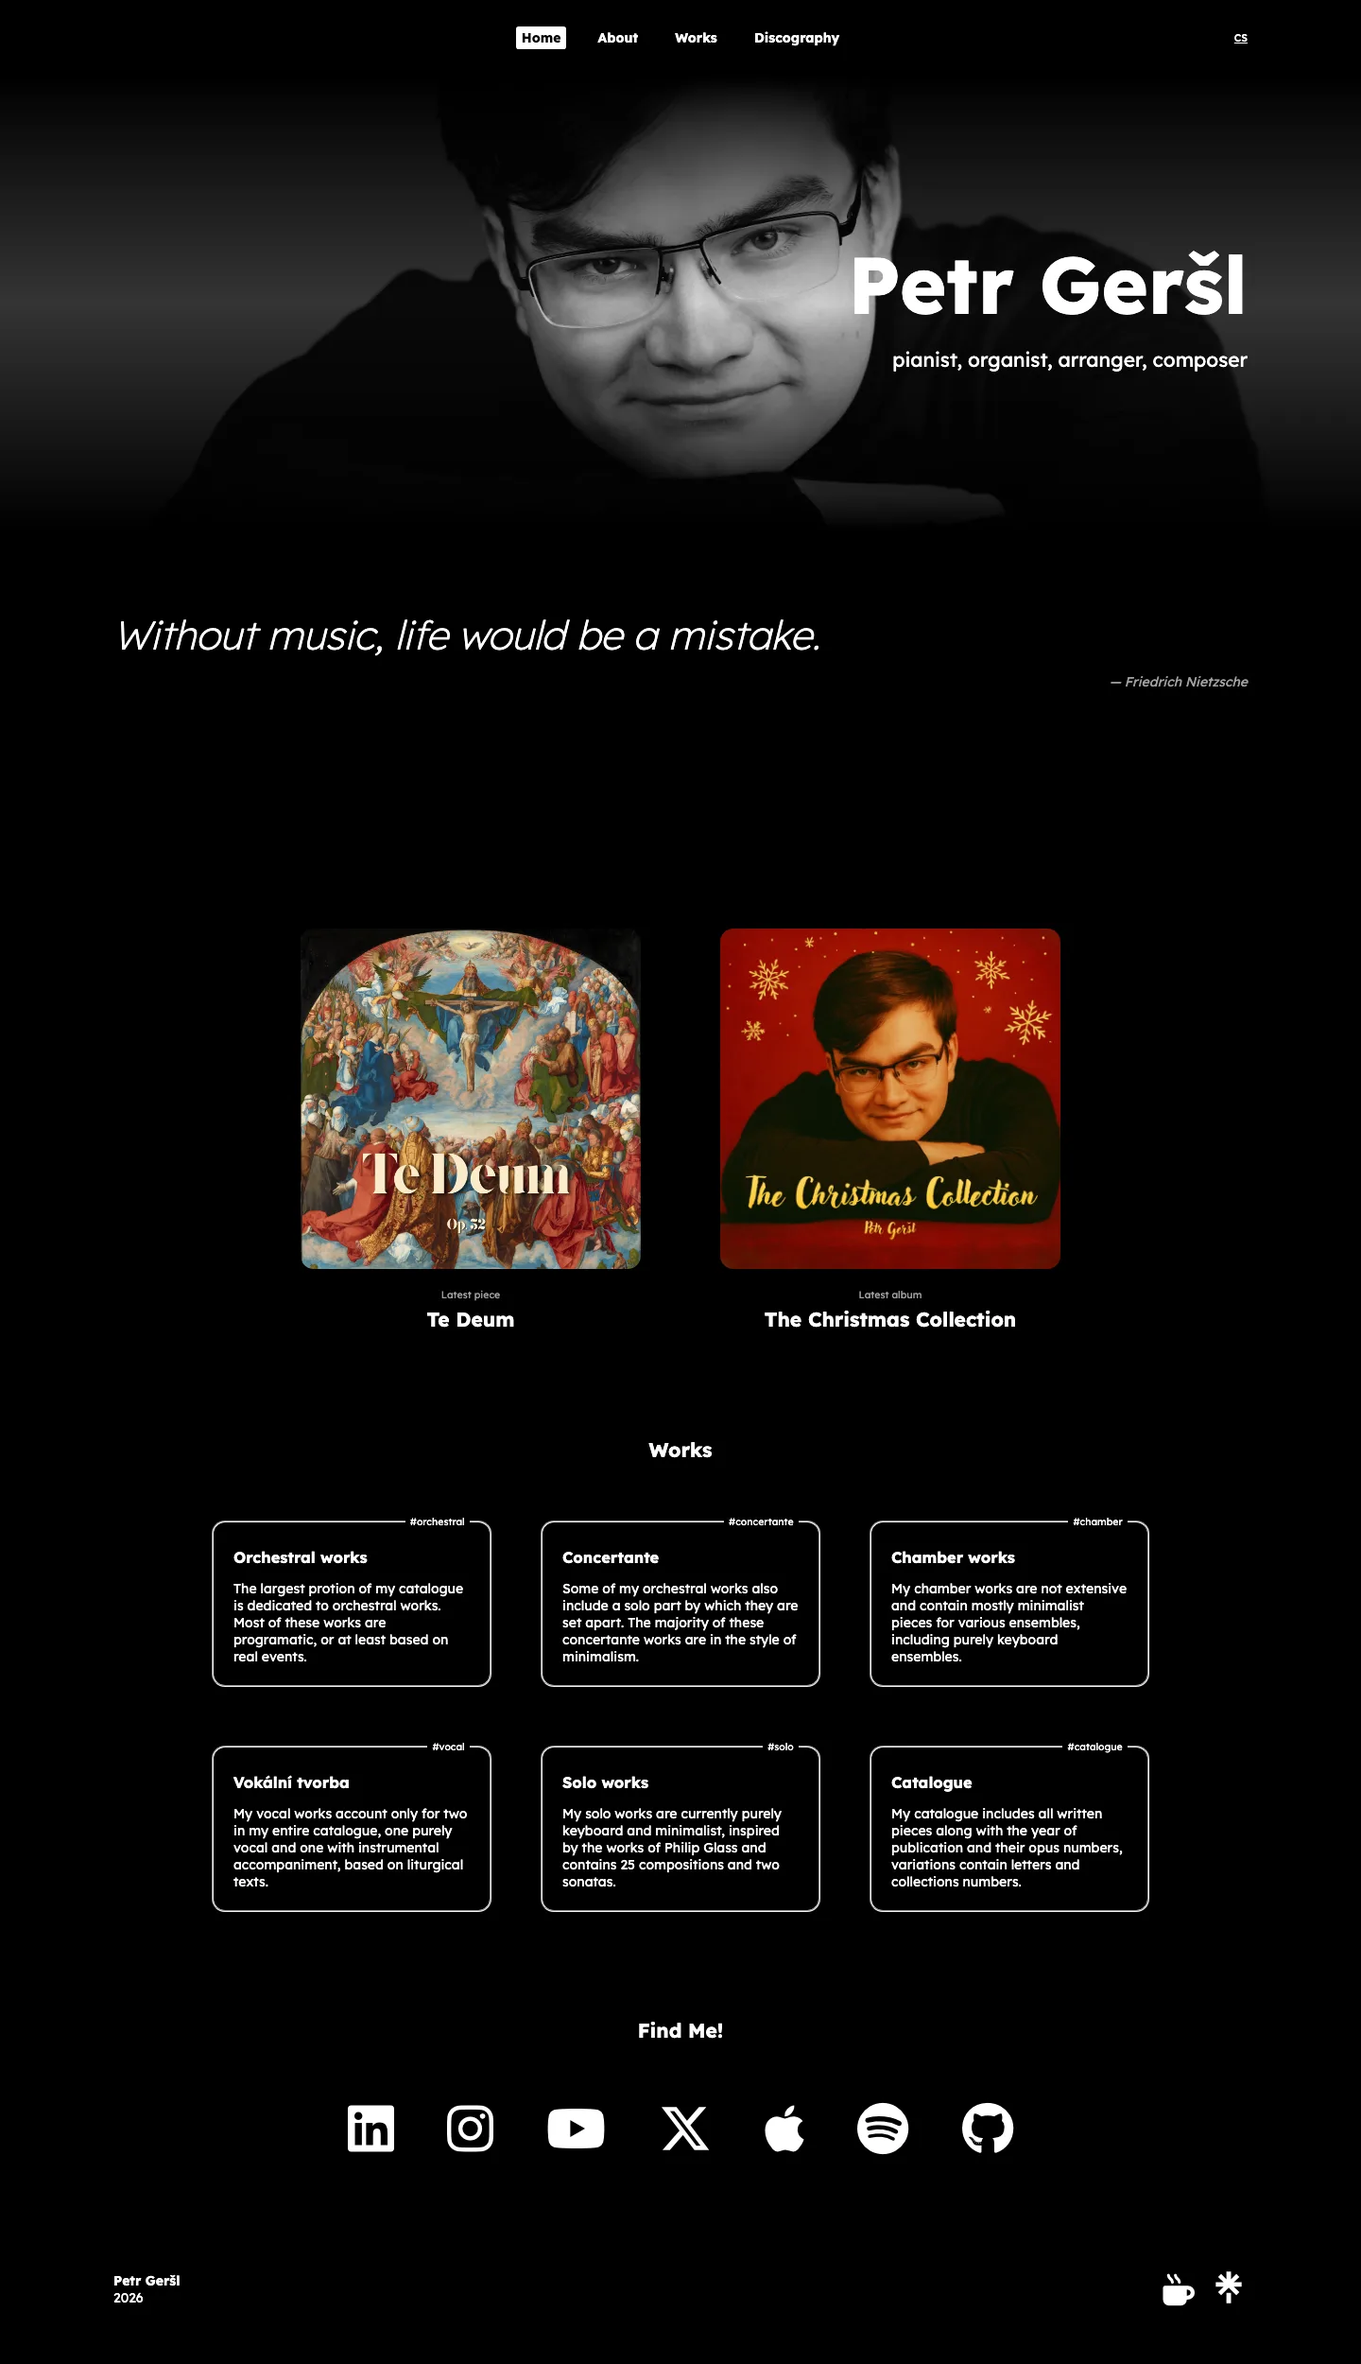
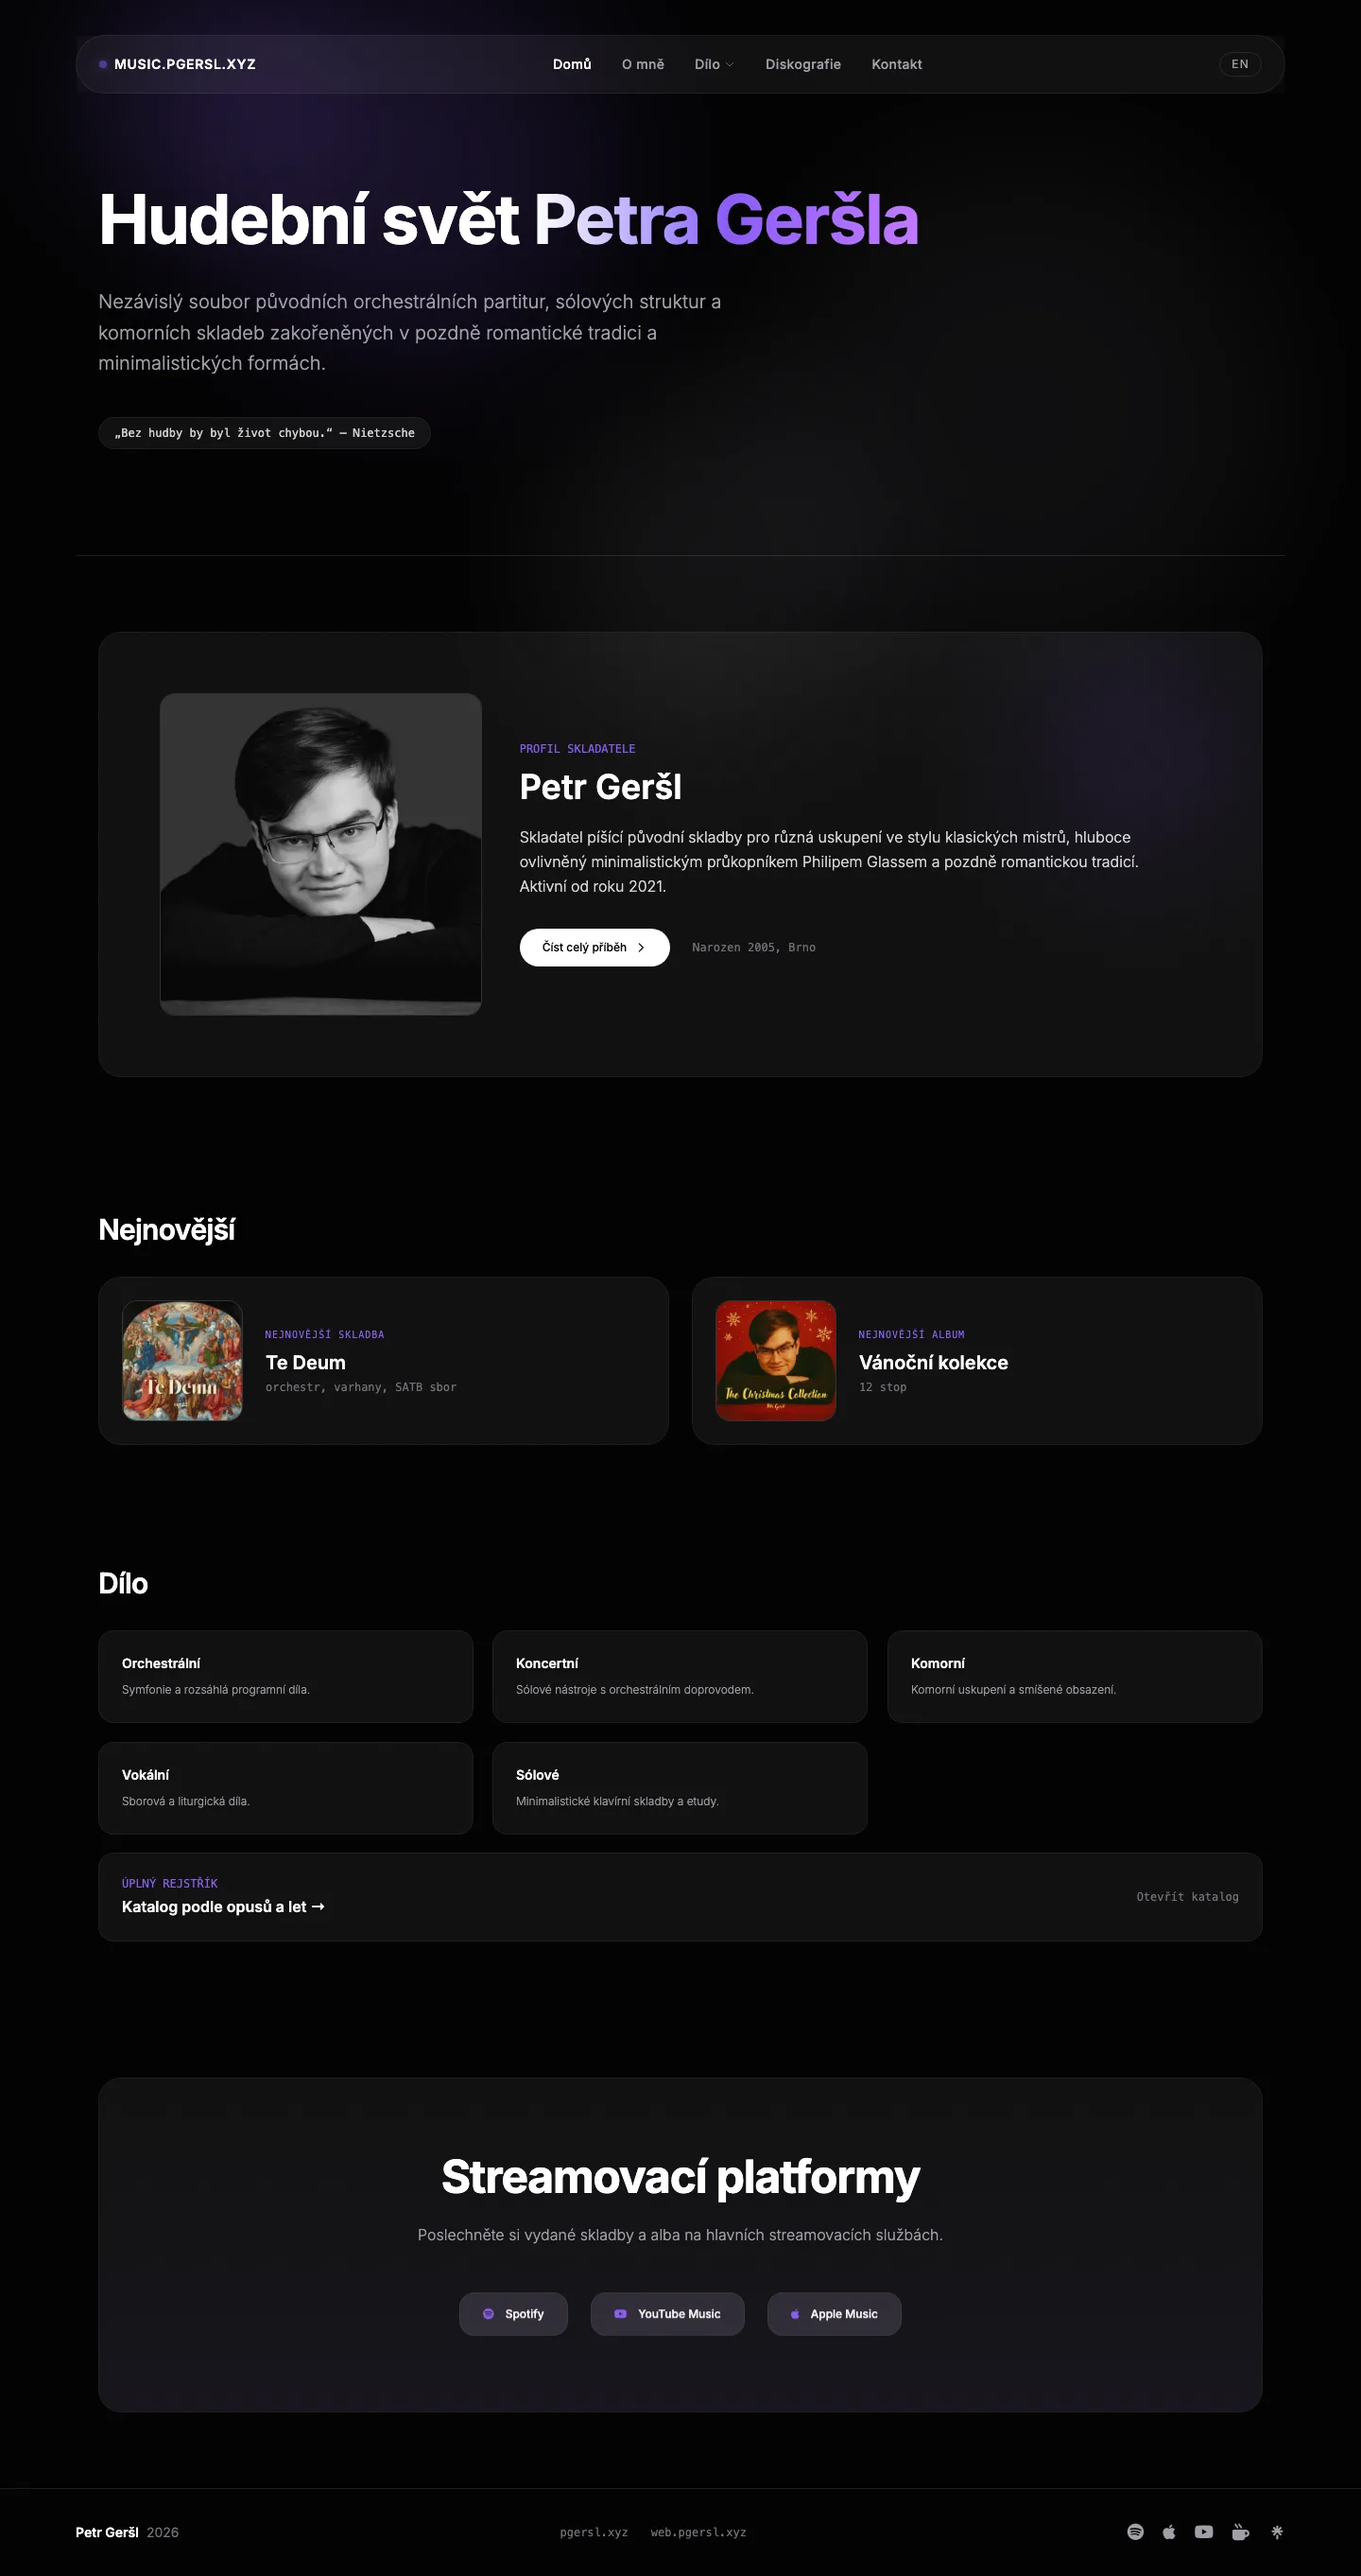
Update music.pgersl.xyz case study screenshot
The site was redesigned since the original capture; refreshed the
full-page screenshot and its recorded dimensions. Also moved the local
dev server off port 1313, which collided with another project's server.

diff --git a/content/portfolio/music-pgersl-xyz.md b/content/portfolio/music-pgersl-xyz.md
@@ -3,7 +3,7 @@ title: "music.pgersl.xyz"
 category: "individual"
 scope: "design, administrativa"
 image: "music-pgersl-xyz.webp"
-imageSize: [1440, 2500]
+imageSize: [1440, 2724]
 link: "https://music.pgersl.xyz/"
 date: 2026-01-01  # approximate — adjust if needed
 weight: 7
